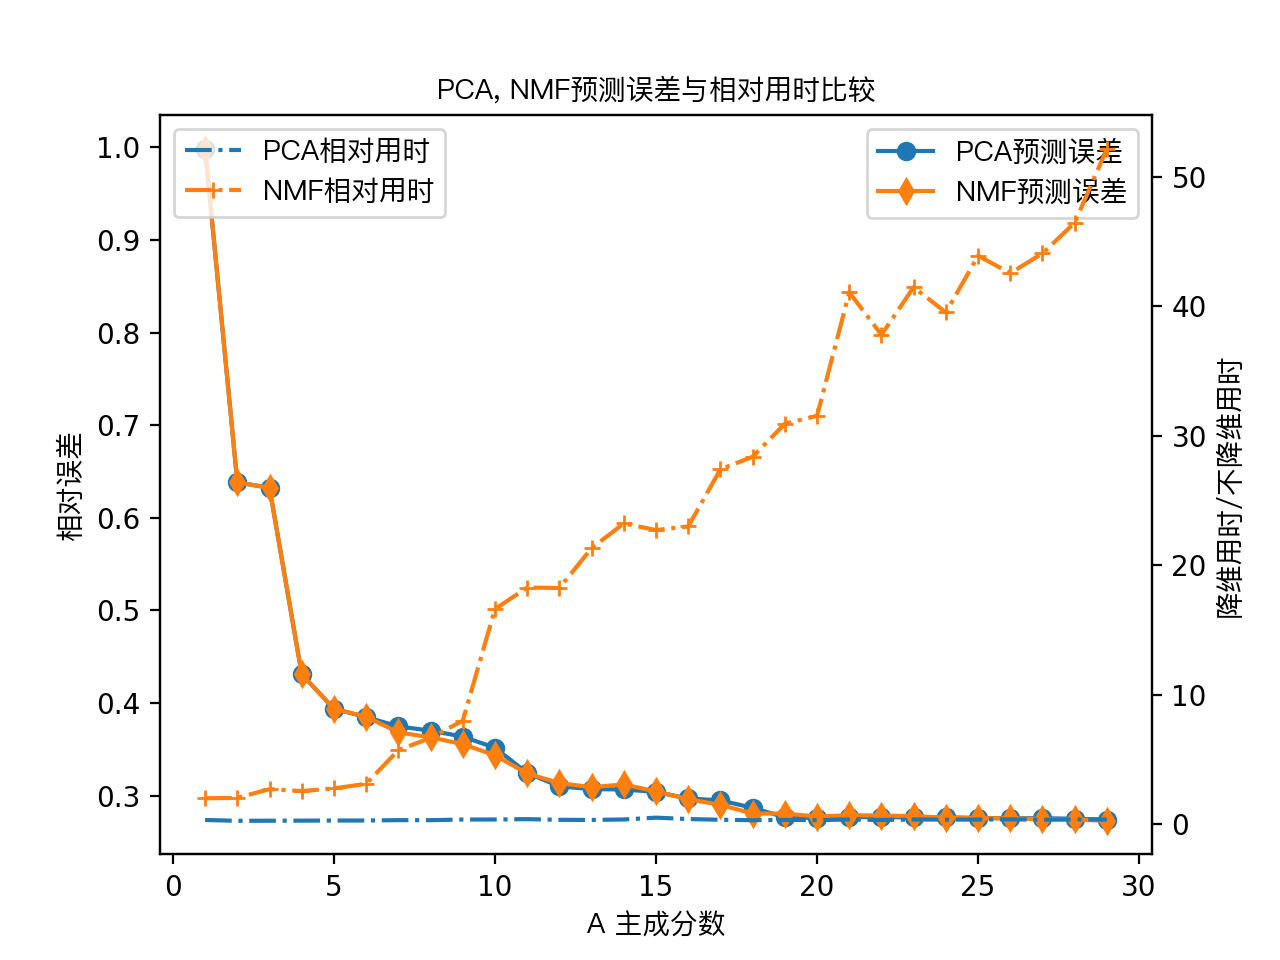
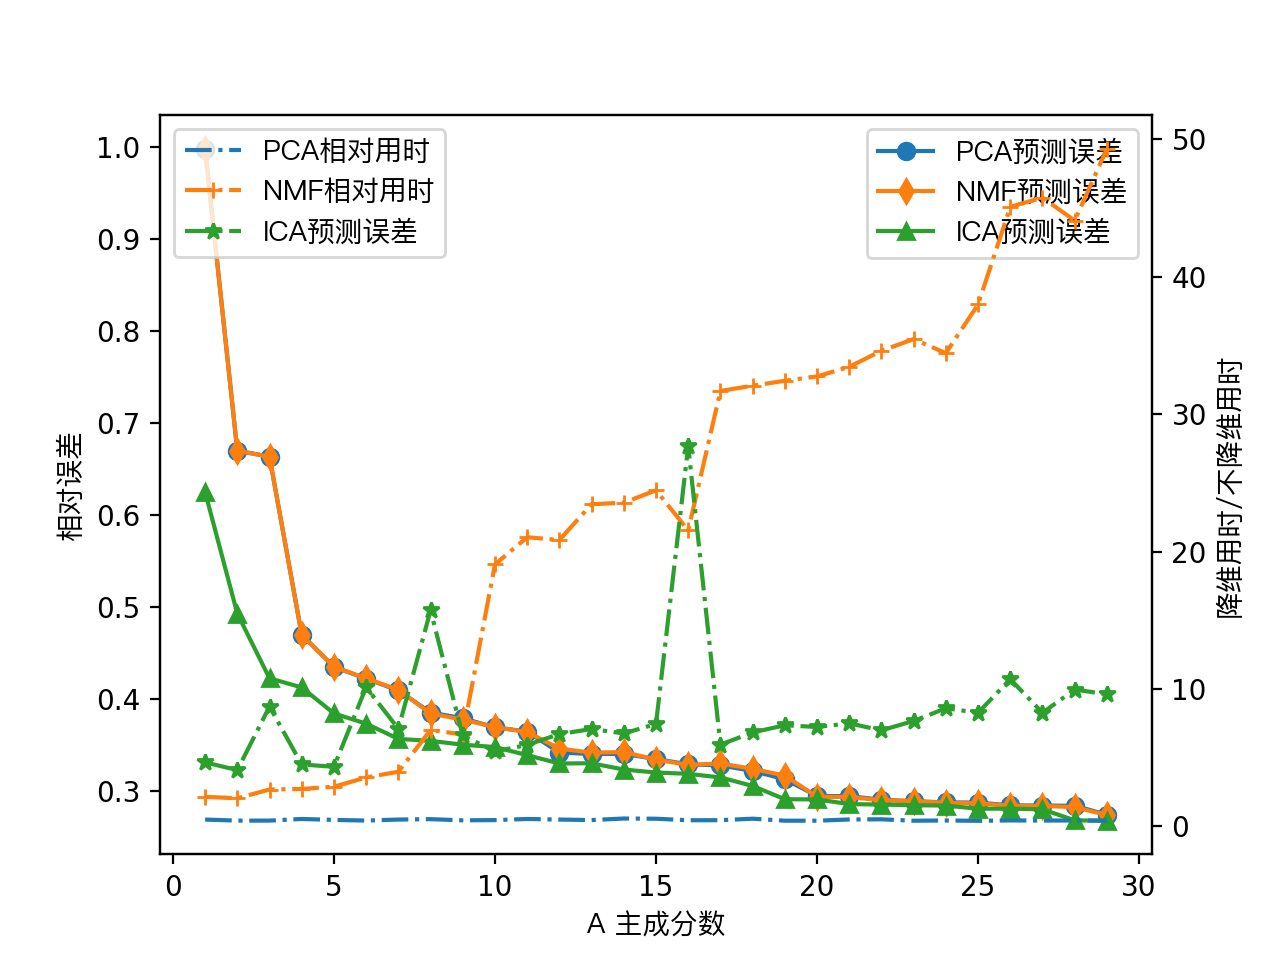
Add files via upload

diff --git a/utils.py b/utils.py
@@ -1,12 +1,14 @@
 #!/usr/bin/env python3
 # -*- coding: utf-8 -*-
-# 
+
 
 import numpy as np
 import numpy.linalg as LA
 from scipy.optimize import lsq_linear
 
 from sklearn.linear_model import Lasso
+from sklearn.decomposition import FastICA
+
 
 def max_(x):
     return max(x, 0)
@@ -35,6 +37,8 @@ def lsq(A, B):
 
 def solve_pca(A, B, p=3, q=None):
     """Solve AX=B with PCA
+
+    It is the core of the algorithm
     
     Arguments:
         A {np.ndarray} -- Matrix
@@ -48,22 +52,64 @@ def solve_pca(A, B, p=3, q=None):
         np.ndarray -- solution
     """
 
-    V, _, Vh = LA.svd(A.T @ A)
+    # A -= np.tile(A.mean(axis=0), (A.shape[0],1))
+    # MB = B.mean(axis=0)
+    # B -= np.tile(MB, (B.shape[0],1))
+
+    V, s, Vh = LA.svd(A.T @ A)
     Vp = V[:, :p]
     Cp = A @ Vp
     if q:
         W, _, Wh = LA.svd(B.T @ B)
         Wq = W[:, :q]
         Bq = B @ Wq
-        Y = LA.lstsq(Cp, Bq, rcond=None)[0]
+        Y = np.diag(1/s[:p]) @ (Cp.T @ Bq)
         X = Vp @ Y @ Wh[:q,:]
     else:
-        Y = LA.lstsq(Cp, B, rcond=None)[0]
+        Y = np.diag(1/s[:p]) @ (Cp.T @ B)
         X = Vp @ Y
     # Err = relerror(A @ X, B)
-    return X, 0
+    return X, ''
 
 solve = solve_pca
+
+def solve_ica(A, B, p=3, q=None):
+    """Solve AX=B with ICA
+    """
+
+    ica = FastICA(n_components=p)
+    ica.fit(A)
+    N = ica.mixing_
+    N = LA.pinv(N.T)
+    S = (ica.transform(A) + ica.mean_ @ N)
+    if q:
+        W, _, Wh = LA.svd(B.T @ B)
+        Wq = W[:, :q]
+        Bq = B @ Wq
+        Y = LA.lstsq(S, Bq, rcond=None)[0]
+        X = N @ Y @ Wh[:q,:]
+    else:
+        Y = LA.lstsq(S, B, rcond=None)[0]
+        X = N @ Y
+    return X, ''
+
+def solve_ica2(A, B, p=3, q=None):
+    """Solve AX=B with ICA
+    """
+
+    ica = FastICA(n_components=p)
+    ica.fit(A)
+    Ap = ica.inverse_transform(ica.transform(A))
+    if q:
+        ica = FastICA(n_components=q)
+        Bq = ica.inverse_transform(ica.transform(B))
+        Y = LA.lstsq(Ap, Bq, rcond=None)[0]
+        X = Y @ Wh[:q,:]
+    else:
+        Y = LA.lstsq(W, B, rcond=None)[0]
+        X = Y
+    return X, ''
+
 
 from sklearn.decomposition import NMF
 def solve_nmf(A, B, p=3, q=None):

diff --git a/compare.py b/compare.py
@@ -43,9 +43,8 @@ if __name__ == '__main__':
     A, A_test, B, B_test = train_test_split(A, B, test_size=0.2)
 
     ps = np.arange(1, 30)
-
-    perf(A, B, A_test, B_test, ps)
-    perf(A, B, A_test, B_test, ps, method='nmf')
+    for method in ('pca', 'nmf', 'ica'):
+        perf(A, B, A_test, B_test, ps, method=method)
 
     import matplotlib.pyplot as plt
     from matplotlib.font_manager import FontProperties
@@ -58,7 +57,8 @@ if __name__ == '__main__':
 
     ax.plot(ps, pca['test'], '-o')
     ax.plot(ps, nmf['test'], '-d')
-    ax.legend(('PCA预测误差', 'NMF预测误差'), prop=myfont)
+    ax.plot(ps, ica['test'], '-^')
+    ax.legend(('PCA预测误差', 'NMF预测误差', 'ICA预测误差'), prop=myfont)
 
     time1 = time.perf_counter()
     XX = LA.lstsq(A, B, rcond=None)[0]
@@ -66,8 +66,8 @@ if __name__ == '__main__':
     time2 = time.perf_counter() - time1
 
     tax = ax.twinx()
-    tax.plot(ps, pca['time']/time2, '-.', ps, nmf['time']/time2, '-.+')
+    tax.plot(ps, pca['time']/time2, '-.', ps, nmf['time']/time2, '-.+', ps, ica['time']/time2, '-.*')
     tax.set_ylabel('降维用时/不降维用时', fontproperties=myfont)
-    tax.legend(('PCA相对用时', 'NMF相对用时'), prop=myfont)
+    tax.legend(('PCA相对用时', 'NMF相对用时', 'ICA预测误差'), prop=myfont)
  
     plt.show()
